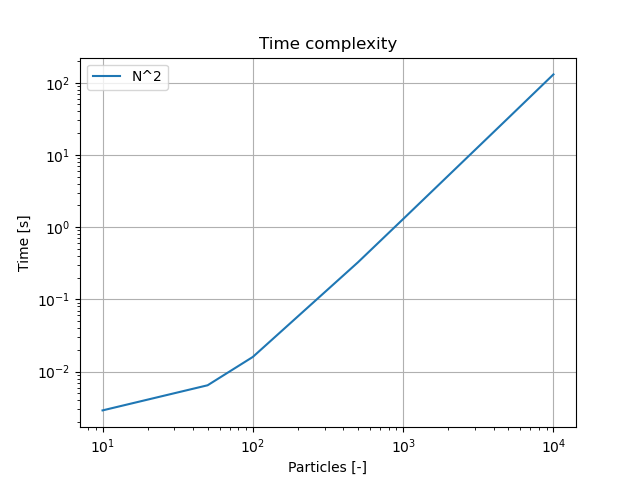
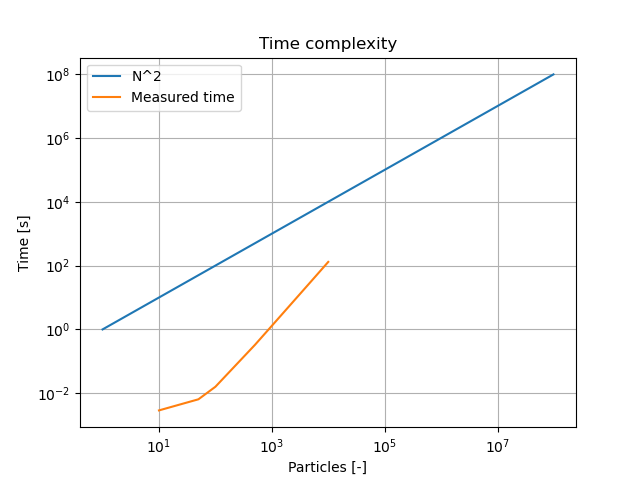
A3, plotting

diff --git a/A3/plotting.py b/A3/plotting.py
@@ -2,10 +2,10 @@ import matplotlib.pyplot as plt
 
 N = [10, 50, 100, 500, 1000, 5000, 10000]
 N_2 = [e**2 for e in range(1, 10000, 100)]
-t = range(1, 10000, 100)
 time = [0.002901, 0.006463, 0.015964, 0.325657, 1.295745, 32.431196, 130.429485]
 
-#plt.loglog(N_2, t)
+
+plt.loglog(N_2, N_2)
 plt.loglog(N, time)
 plt.legend(["N^2", "Measured time"])
 plt.title("Time complexity")
